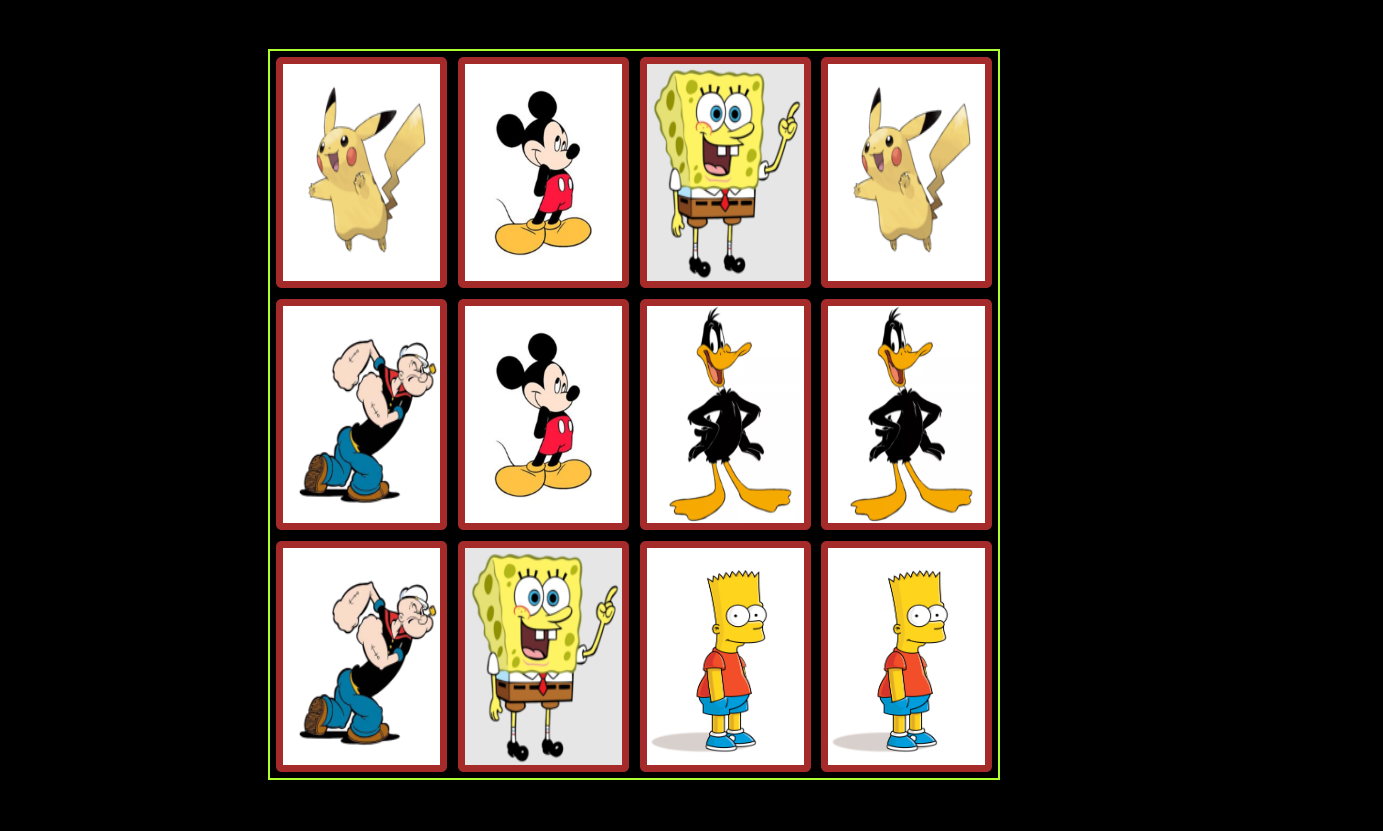
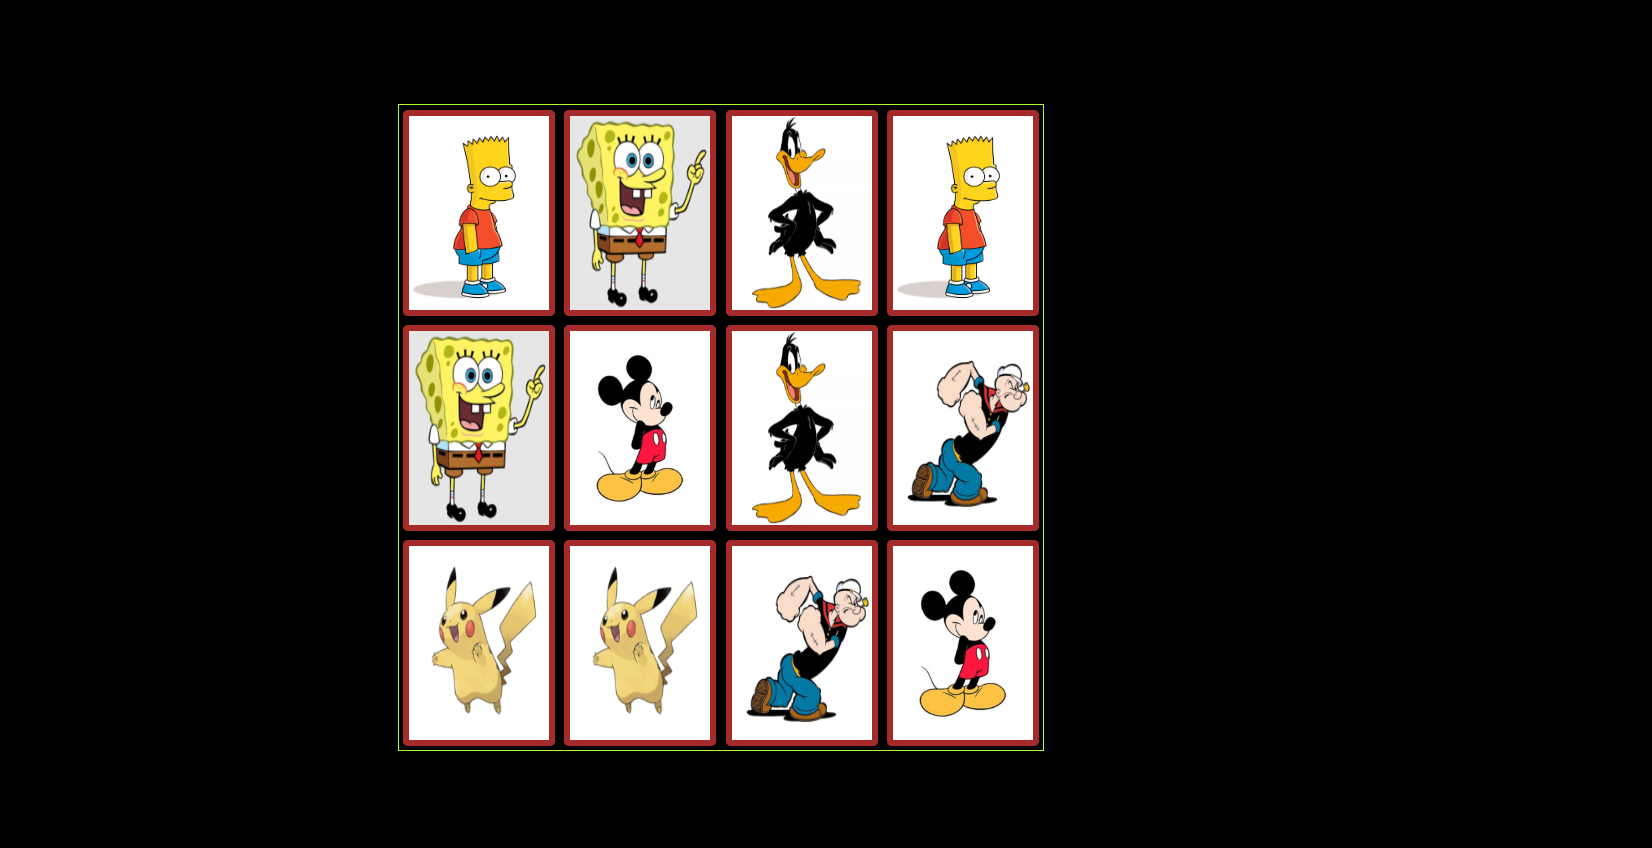
update projects

diff --git a/src/components/workDetails.js b/src/components/workDetails.js
@@ -1,8 +1,18 @@
 const details = [
-    
+
+
+
+
+
+    {   id : 16,
+        name :"Fictive Virtual Personal Banking",
+        image:"images/fictive_bank.png",
+        link:"https://clinquant-cajeta-42eed6.netlify.app/",
+        language:"#DOM manipulation, #JavaScript #CSS"
+    },
     {   id : 15,
         name :"Memory Game",
-        image:"images/memory.png",
+        image:"images/memory1.png",
         link:"https://vermillion-tapioca-55e5ed.netlify.app/",
         language:"#DOM manipulation, #JavaScript #CSS"
     },
